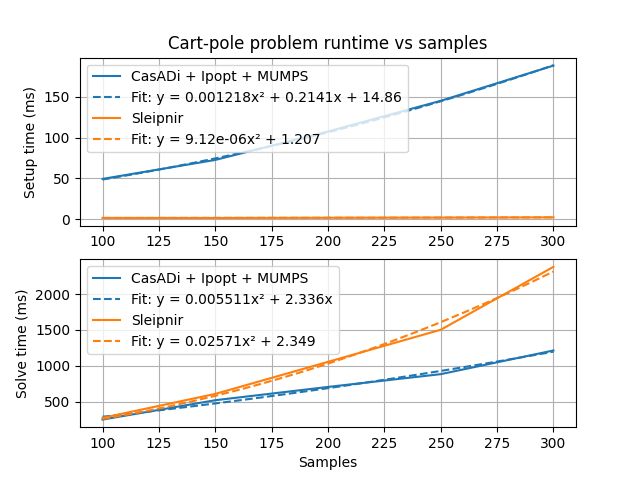
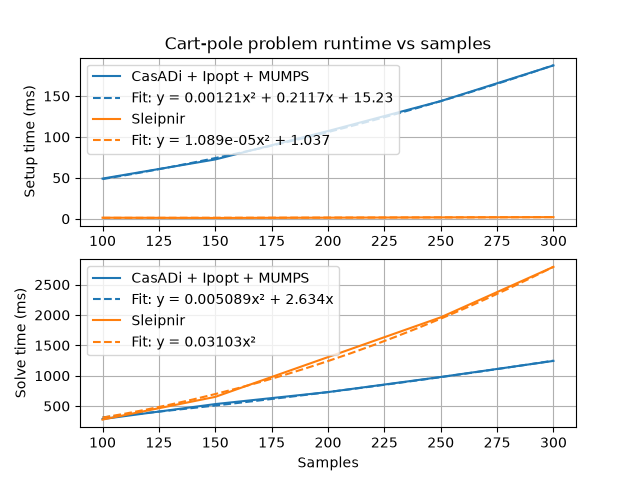
Rerun scalability benchmarks (#1294)

diff --git a/benchmarks/README.md b/benchmarks/README.md
@@ -26,7 +26,7 @@ Generated by [benchmarks/generate-scalability-results.sh](https://github.com/Sle
 
 * CPU: AMD Ryzen 7 7840U
 * RAM: 64 GB, 5600 MHz DDR5
-* Compiler version: g++ (GCC) 16.1.1 20260430
+* Compiler version: g++ (GCC) 16.1.1 20260728
 
 The benchmarks use the following thirdparty software:
 
